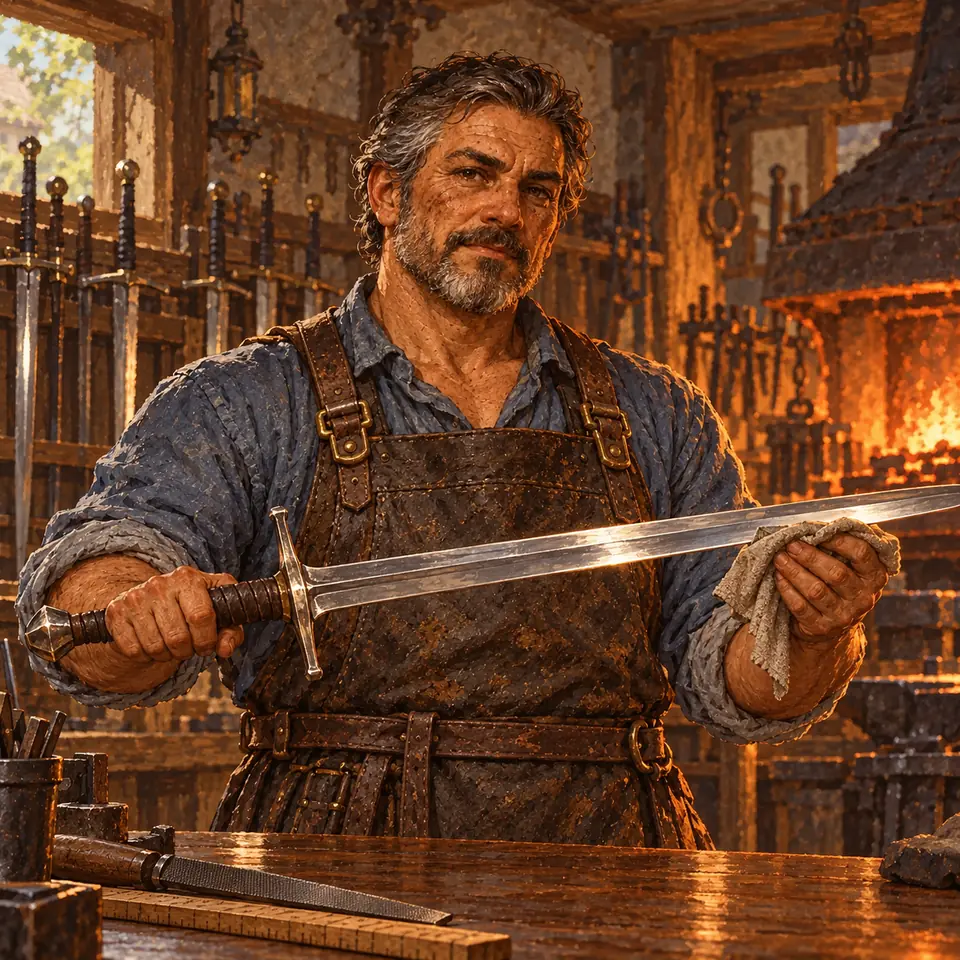
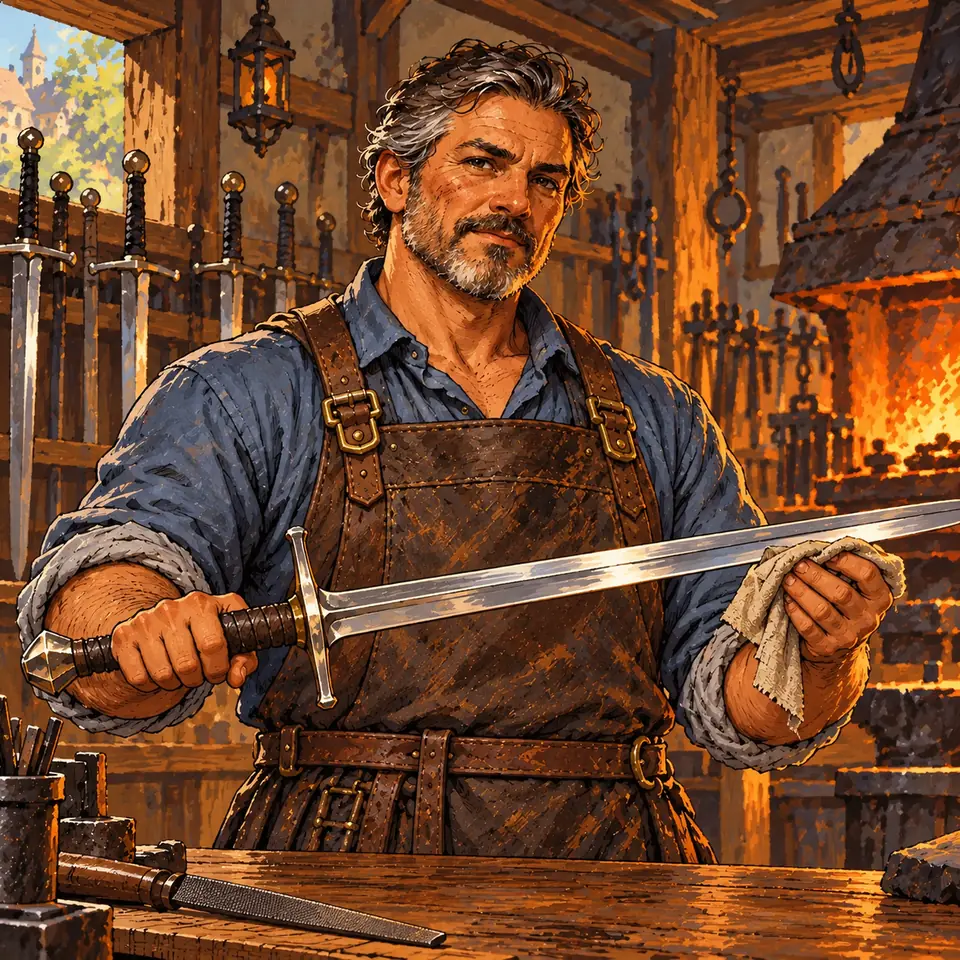
Use approved ink and colour artwork and default NPC style

diff --git a/docs/npcs/garran-vey/index.html b/docs/npcs/garran-vey/index.html
@@ -1,11 +1,11 @@
 <!doctype html>
 <html lang="en"><head><meta charset="utf-8"><meta name="viewport" content="width=device-width, initial-scale=1"><title>Garran Vey — Master Swordsmith | NPC Beta</title>
 <meta name="description" content="Garran owns The True Edge, a tidy town weapons shop lined with finely balanced swords. This patient master craftsman sells finished blades and makes custom weapons, fitting the grip, reach and balance to each customer rather than adding needless ornament."><link rel="canonical" href="https://npcbetaproject.github.io/npcbeta/npcs/garran-vey/">
-<meta property="og:type" content="article"><meta property="og:site_name" content="NPC Beta"><meta property="og:title" content="Garran Vey — Master Swordsmith | NPC Beta"><meta property="og:description" content="Garran owns The True Edge, a tidy town weapons shop lined with finely balanced swords. This patient master craftsman sells finished blades and makes custom weapons, fitting the grip, reach and balance to each customer rather than adding needless ornament."><meta property="og:url" content="https://npcbetaproject.github.io/npcbeta/npcs/garran-vey/"><meta property="og:image" content="https://npcbetaproject.github.io/npcbeta/images/characters/garran-vey.webp"><meta property="og:image:alt" content="Painted portrait of Garran Vey, a human swordsmith with swept-back greying hair and a trimmed beard, examining a finished sword behind the counter of his town weapons shop.">
-<meta name="twitter:card" content="summary_large_image"><meta name="twitter:title" content="Garran Vey — Master Swordsmith | NPC Beta"><meta name="twitter:description" content="Garran owns The True Edge, a tidy town weapons shop lined with finely balanced swords. This patient master craftsman sells finished blades and makes custom weapons, fitting the grip, reach and balance to each customer rather than adding needless ornament."><meta name="twitter:image" content="https://npcbetaproject.github.io/npcbeta/images/characters/garran-vey.webp"><meta name="twitter:image:alt" content="Painted portrait of Garran Vey, a human swordsmith with swept-back greying hair and a trimmed beard, examining a finished sword behind the counter of his town weapons shop.">
+<meta property="og:type" content="article"><meta property="og:site_name" content="NPC Beta"><meta property="og:title" content="Garran Vey — Master Swordsmith | NPC Beta"><meta property="og:description" content="Garran owns The True Edge, a tidy town weapons shop lined with finely balanced swords. This patient master craftsman sells finished blades and makes custom weapons, fitting the grip, reach and balance to each customer rather than adding needless ornament."><meta property="og:url" content="https://npcbetaproject.github.io/npcbeta/npcs/garran-vey/"><meta property="og:image" content="https://npcbetaproject.github.io/npcbeta/images/characters/garran-vey.webp"><meta property="og:image:alt" content="Ink and colour fantasy illustration of Garran Vey, a human swordsmith with swept-back greying hair and a trimmed beard, examining a finished sword behind the counter of his town weapons shop.">
+<meta name="twitter:card" content="summary_large_image"><meta name="twitter:title" content="Garran Vey — Master Swordsmith | NPC Beta"><meta name="twitter:description" content="Garran owns The True Edge, a tidy town weapons shop lined with finely balanced swords. This patient master craftsman sells finished blades and makes custom weapons, fitting the grip, reach and balance to each customer rather than adding needless ornament."><meta name="twitter:image" content="https://npcbetaproject.github.io/npcbeta/images/characters/garran-vey.webp"><meta name="twitter:image:alt" content="Ink and colour fantasy illustration of Garran Vey, a human swordsmith with swept-back greying hair and a trimmed beard, examining a finished sword behind the counter of his town weapons shop.">
 <link rel="stylesheet" href="../../css/styles.css"><script src="../../js/npc-page.js" defer></script></head>
 <body class="npc-page"><header class="site-header"><a class="brand" href="../../#library" aria-label="NPC Beta — Library"><img class="brand-logo" src="../../images/branding/npc-beta-logo.png" width="300" height="97" alt="NPC Beta"></a><a href="../../#session">Session</a></header>
-<main class="npc-profile" data-npc-id="garran-vey"><img class="npc-page-portrait" src="../../images/characters/garran-vey.webp" width="960" height="960" alt="Painted portrait of Garran Vey, a human swordsmith with swept-back greying hair and a trimmed beard, examining a finished sword behind the counter of his town weapons shop."><article><h1>Garran Vey</h1><p class="detail-meta">Human · Master Swordsmith · A blade fitted to its bearer</p><section><h2>Description</h2><p>Garran owns The True Edge, a tidy town weapons shop lined with finely balanced swords. This patient master craftsman sells finished blades and makes custom weapons, fitting the grip, reach and balance to each customer rather than adding needless ornament.</p></section>
+<main class="npc-profile" data-npc-id="garran-vey"><img class="npc-page-portrait" src="../../images/characters/garran-vey.webp" width="960" height="960" alt="Ink and colour fantasy illustration of Garran Vey, a human swordsmith with swept-back greying hair and a trimmed beard, examining a finished sword behind the counter of his town weapons shop."><article><h1>Garran Vey</h1><p class="detail-meta">Human · Master Swordsmith · A blade fitted to its bearer</p><section><h2>Description</h2><p>Garran owns The True Edge, a tidy town weapons shop lined with finely balanced swords. This patient master craftsman sells finished blades and makes custom weapons, fitting the grip, reach and balance to each customer rather than adding needless ornament.</p></section>
 <section><h2>At the table</h2><p>Speak in a measured, practical tone. Offer a wooden practice sword and watch the customer’s grip before discussing a commission; turn real blades flat toward visitors. “Show me how you hold it. A fine sword should fit your hand, not make you fight it.”</p></section>
 <section><h2>Personality</h2><p>Courteous and exacting, with little patience for boastful claims about steel. He becomes warmly animated when someone asks a thoughtful question about his craft.</p></section>
 <section><h2>Motivations</h2><p>Keep The True Edge known for reliable workmanship, and finish every commission to the promised standard. He would rather lose a sale than deliver a badly balanced weapon.</p></section>

diff --git a/project/npc-portrait-standard.md b/project/npc-portrait-standard.md
@@ -5,7 +5,7 @@ Use this standard for all future library NPC portraits.
 - Final asset: exactly 960 × 960 pixels, square 1:1, WebP, opaque background.
 - Path: docs/images/characters/<npc-id>.webp; lowercase kebab-case matching the stable NPC ID.
 - Use the same high-resolution file for Library, Saved, Session and the expanded NPC profile. Do not enlarge low-resolution embedded portraits or make separate low-resolution profile assets.
-- Painted storybook fantasy illustration with visible brushwork, believable anatomy, muted earthy colours, soft cinematic lighting and grounded medieval clothing. Avoid photographic skin detail and exaggerated cartoon styling.
+- **Ink and colour** fantasy RPG illustration: expressive ink contours, selective crosshatching, rich gouache colour and clear graphic shadow shapes, with believable anatomy and grounded medieval clothing. Use Garran Vey’s approved portrait (`docs/images/characters/garran-vey.webp`) as the default style reference. Avoid photographic skin pores, camera-like textures and exaggerated cartoon styling. This supersedes the earlier painted storybook direction.
 - One centered character, waist-up, both shoulders in frame. Entire head, hair, ears and hood/hat visible. Aim for 15–20% clear background above the highest head point. Face in upper-middle. Profession props below the face.
 - Background appropriate to the NPC, softly focused and secondary. No text, labels, frames, watermark or additional characters.
 - Use an approved existing portrait as the style reference. For replacements, preserve the recognizable appearance and established character description.
@@ -16,7 +16,7 @@ Use this standard for all future library NPC portraits.
 - Preserve existing NPC IDs, descriptions, browser storage and session selections when replacing portraits. Update portrait mappings to the external WebP paths and meaningful imageAlt text. Do not leave an old embedded portrait taking precedence.
 
 ## Reusable generation prompt
-Create one standalone square NPC Beta fantasy portrait of [name, ancestry, age, appearance, profession, clothing, expression, optional prop], in [appropriate softly blurred setting]. Match the approved reference's painted storybook fantasy illustration style, visible brushwork, believable anatomy, muted earthy palette and soft cinematic lighting; avoid photographic skin detail and exaggerated cartoon styling. Centered waist-up framing; full head, hair, ears and headwear visible; both shoulders within the frame; 15–20% background above the highest head point; face in upper-middle; props below the face. No tight closeup, cropped head, text, frames, watermark or other characters. Export exactly 960 × 960 WebP as <npc-id>.webp after generation, without cropping or stretching.
+Create one standalone square NPC Beta fantasy portrait of [name, ancestry, age, appearance, profession, clothing, expression, optional prop], in [appropriate softly blurred setting]. Match Garran Vey’s approved Ink and colour fantasy RPG illustration style: expressive ink contours, selective crosshatching, rich gouache colour, clear graphic shadow shapes and believable anatomy; avoid photographic skin pores, camera-like textures and exaggerated cartoon styling. Centered waist-up framing; full head, hair, ears and headwear visible; both shoulders within the frame; 15–20% background above the highest head point; face in upper-middle; props below the face. No tight closeup, cropped head, text, frames, watermark or other characters. Export exactly 960 × 960 WebP as <npc-id>.webp after generation, without cropping or stretching.
 
 ## Verification
 Check exact 960 × 960 WebP output, recognizable character, intact head/hair/headwear, and readable face at card size. Check card and expanded profile on desktop and mobile, including Saved and Session. Browser verification is required when integrating; asset verification alone does not confirm website rendering.

diff --git a/project/npc-token-standard.md b/project/npc-token-standard.md
@@ -9,7 +9,7 @@ Use Brakka Hearthhand's approved token, `docs/images/tokens/brakka-hearthhand-to
 - A circular portrait token with a restrained antique brass, burgundy and charcoal border.
 - A small dragon-head emblem integrated into the bottom border. Use only the dragon from `docs/images/branding/npc-beta-logo.png`; no NPC Beta lettering or character-name plaque.
 - Fully transparent outside the border; a subdued background is allowed inside the circle.
-- Center the face at a readable size, with complete hair, ears, horns and headwear inside the frame. Preserve the portrait's identity, clothing and painted fantasy style.
+- Center the face at a readable size, with complete hair, ears, horns and headwear inside the frame. Preserve the portrait's identity, clothing and approved Ink and colour fantasy RPG style (expressive ink contours, selective crosshatching, rich gouache colour and graphic shadows).
 - Keep the complete border within the square canvas, with a small transparent safety margin. No exterior shadow or extra scenery.
 
 ## Export
@@ -48,7 +48,7 @@ Keep the regular portrait as the main profile image. NPCs without a token hide t
 
 Reusable prompt:
 
-> Create a circular virtual tabletop token of [NPC] from the supplied final portrait, preserving recognizable identity and painted fantasy style. Match the approved Brakka token's restrained antique brass/burgundy/charcoal frame. Center the head and upper chest; keep all hair, ears, horns and headwear inside the circle and the entire border inside the square canvas. Include only a small dragon-head emblem from the site logo in a subtle bottom medallion; no lettering or nameplate. Subdued interior background; genuinely transparent exterior, no exterior shadow. Keep the face readable when reduced to 280 × 280. Export as `<npc-id>-token.webp` after generation.
+> Create a circular virtual tabletop token of [NPC] from the supplied final portrait, preserving recognizable identity and the finalized portrait’s Ink and colour fantasy RPG style. Match the approved Brakka token's restrained antique brass/burgundy/charcoal frame. Center the head and upper chest; keep all hair, ears, horns and headwear inside the circle and the entire border inside the square canvas. Include only a small dragon-head emblem from the site logo in a subtle bottom medallion; no lettering or nameplate. Subdued interior background; genuinely transparent exterior, no exterior shadow. Keep the face readable when reduced to 280 × 280. Export as `<npc-id>-token.webp` after generation.
 
 ## Verification
 

diff --git a/project/garran-vey.md b/project/garran-vey.md
@@ -14,4 +14,4 @@ Reviewed by a second contributor before integration. The reviewer approved the t
 
 ## Artwork direction
 
-Painted fantasy illustration matching Maera's established medium, with a new human male identity: greying swept-back hair, trimmed beard, blue linen shirt and leather apron. Waist-up behind a shop counter with a fine practical sword below his face, complete head and generous headroom. Derive a circular token using the approved Brakka frame and dragon-only logo reference. Export to the current portrait and token standards.
+User-approved Ink and colour fantasy RPG illustration with expressive ink contours, selective crosshatching, rich gouache colour and graphic shadows. Default style reference for future NPCs. Garran’s identity: greying swept-back hair, trimmed beard, blue linen shirt and leather apron. Waist-up behind a shop counter with a fine practical sword below his face, complete head and generous headroom. Derive a circular token using the approved Brakka frame and dragon-only logo reference. Export to the current portrait and token standards.

diff --git a/AGENTS.md b/AGENTS.md
@@ -1,6 +1,6 @@
 # NPC Beta project guidance
 
-For any new or replacement library NPC portrait, follow project/npc-portrait-standard.md. Use one exactly 960 × 960 WebP asset for cards and expanded profiles, with full heads and generous headroom. Preserve character IDs and browser storage when updating references.
+For any new or replacement library NPC portrait, follow project/npc-portrait-standard.md. Default to the approved **Ink and colour** fantasy RPG style (expressive ink contours, selective crosshatching, rich gouache colour and graphic shadows), using Garran Vey as the style reference. Use one exactly 960 × 960 WebP asset for cards and expanded profiles, with full heads and generous headroom. Preserve character IDs and browser storage when updating references.
 
 Export NPC portraits as opaque WebP with quality 75 and method 6; review visible detail before publishing. These settings supersede older NPC pack export settings.
 

diff --git a/project/npc-pack-standard.md b/project/npc-pack-standard.md
@@ -37,7 +37,7 @@ Use only valid existing `locationIds`; preserve display-oriented `locationFit` w
 
 For each requested NPC:
 
-1. Create and inspect the **960 × 960 opaque WebP portrait**, following the portrait standard. Prefer painted fantasy illustration over a photographic look. Preserve complete heads and headroom.
+1. Create and inspect the **960 × 960 opaque WebP portrait**, following the portrait standard. Use the approved **Ink and colour** fantasy RPG style and Garran Vey reference specified in the portrait standard. Preserve complete heads and headroom.
 2. Derive the **280 × 280 transparent WebP token** from that finalized portrait, using the approved circular border and subtle dragon-only emblem. Follow the token standard; do not target 2 KB.
 3. Export from high-resolution/lossless sources, verify dimensions/format/transparency/size, and retain sources when available. Avoid repeatedly recompressing lossy assets.
 
